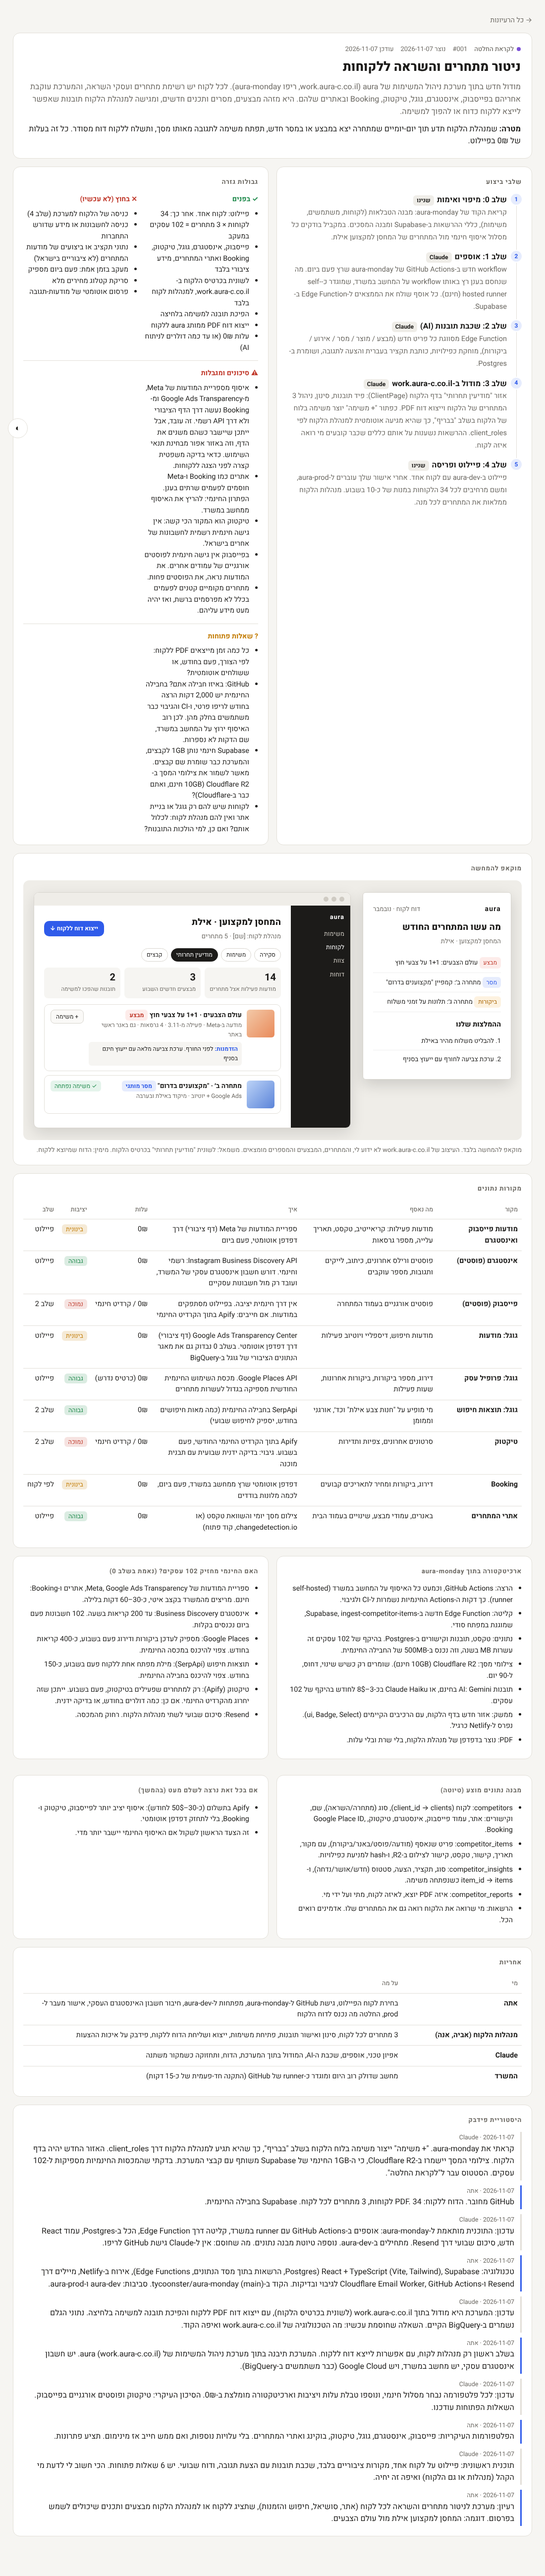
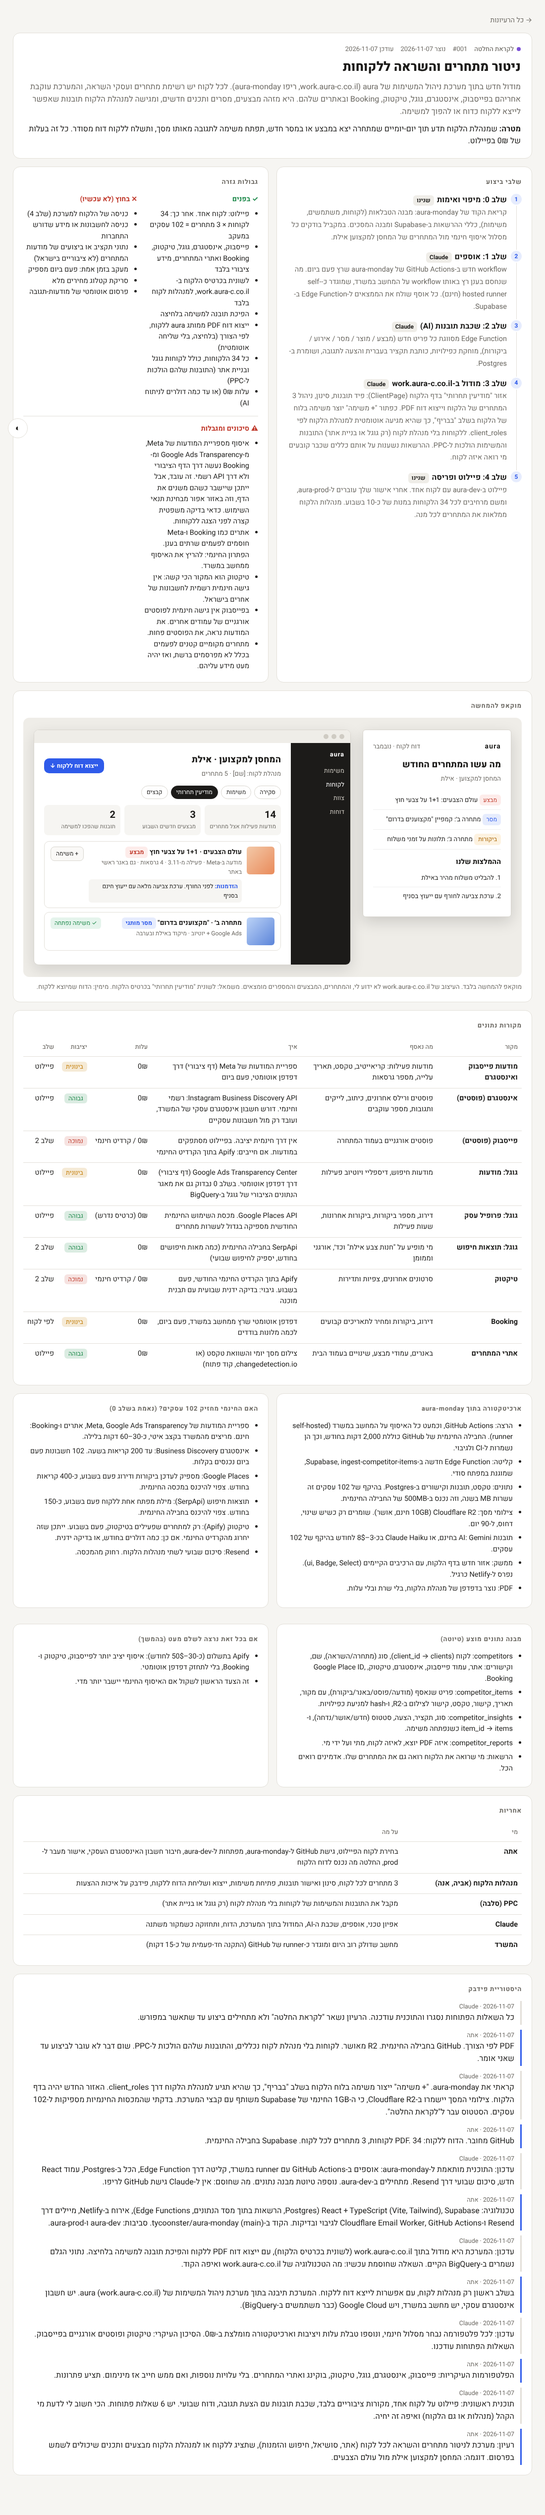
Ideas board: standing rules for any session; close idea 001 questions
CLAUDE.md now tells every session to add proposed ideas to the board
directly and never implement until explicitly approved. Idea 001: PDF on
demand, R2 approved, clients without an account manager route to PPC.

Claude-Session: https://claude.ai/code/session_01GqXwLKGuNiB6isbJsXL8Lf

Changed region(s): [[0.0309, 0.0, 0.9582, 0.9965], [0.0309, 0.2803, 0.2164, 0.3425]]

diff --git a/ideas/index.html b/ideas/index.html
@@ -153,12 +153,13 @@ const IDEAS = [
       {t:'שלב 0: מיפוי ואימות', d:'קריאת הקוד של aura-monday: מבנה הטבלאות (לקוחות, משתמשים, משימות), כללי ההרשאות ב-Supabase ומבנה המסכים. במקביל בודקים כל מסלול איסוף חינמי מול המתחרים של המחסן למקצוען אילת.', who:'שנינו'},
       {t:'שלב 1: אוספים', d:'workflow חדש ב-GitHub Actions של aura-monday שרץ פעם ביום. מה שנחסם בענן רץ באותו workflow על המחשב במשרד, שמוגדר כ-self-hosted runner (חינם). כל אוסף שולח את הממצאים ל-Edge Function ב-Supabase.', who:'Claude'},
       {t:'שלב 2: שכבת תובנות (AI)', d:'Edge Function מסווגת כל פריט חדש (מבצע / מוצר / מסר / אירוע / ביקורות), מוחקת כפילויות, כותבת תקציר בעברית והצעה לתגובה, ושומרת ב-Postgres.', who:'Claude'},
-      {t:'שלב 3: מודול ב-work.aura-c.co.il', d:'אזור "מודיעין תחרותי" בדף הלקוח (ClientPage): פיד תובנות, סינון, ניהול 3 המתחרים של הלקוח וייצוא דוח PDF. כפתור "+ משימה" יוצר משימה בלוח של הלקוח בשלב "בבריף", כך שהיא מגיעה אוטומטית למנהלת הלקוח לפי client_roles. ההרשאות נשענות על אותם כללים שכבר קובעים מי רואה איזה לקוח.', who:'Claude'},
+      {t:'שלב 3: מודול ב-work.aura-c.co.il', d:'אזור "מודיעין תחרותי" בדף הלקוח (ClientPage): פיד תובנות, סינון, ניהול 3 המתחרים של הלקוח וייצוא דוח PDF. כפתור "+ משימה" יוצר משימה בלוח של הלקוח בשלב "בבריף", כך שהיא מגיעה אוטומטית למנהלת הלקוח לפי client_roles. ללקוחות בלי מנהלת לקוח (רק גוגל או בניית אתר) התובנות והמשימות הולכות ל-PPC. ההרשאות נשענות על אותם כללים שכבר קובעים מי רואה איזה לקוח.', who:'Claude'},
       {t:'שלב 4: פיילוט ופריסה', d:'פיילוט ב-aura-dev עם לקוח אחד. אחרי אישור שלך עוברים ל-aura-prod, ומשם מרחיבים לכל 34 הלקוחות במנות של כ-10 בשבוע. מנהלות הלקוח ממלאות את המתחרים לכל מנה.', who:'שנינו'},
     ],
     owners: [
       {who:'אתה', what:'בחירת לקוח הפיילוט, גישת GitHub ל-aura-monday, מפתחות ל-aura-dev, חיבור חשבון האינסטגרם העסקי, אישור מעבר ל-prod, החלטה מה נכנס לדוח הלקוח'},
       {who:'מנהלות הלקוח (אביה, אנה)', what:'3 מתחרים לכל לקוח, סינון ואישור תובנות, פתיחת משימות, ייצוא ושליחת הדוח ללקוח, פידבק על איכות ההצעות'},
+      {who:'PPC (סלבה)', what:'מקבל את התובנות והמשימות של לקוחות בלי מנהלת לקוח (רק גוגל או בניית אתר)'},
       {who:'Claude', what:'אפיון טכני, אוספים, שכבת ה-AI, המודול בתוך המערכת, הדוח, ותחזוקה כשמקור משתנה'},
       {who:'המשרד', what:'מחשב שדולק רוב היום ומוגדר כ-runner של GitHub (התקנה חד-פעמית של כ-15 דקות)'},
     ],
@@ -167,7 +168,8 @@ const IDEAS = [
       'פייסבוק, אינסטגרם, גוגל, טיקטוק, Booking ואתרי המתחרים, מידע ציבורי בלבד',
       'לשונית בכרטיס הלקוח ב-work.aura-c.co.il, למנהלות לקוח בלבד',
       'הפיכת תובנה למשימה בלחיצה',
-      'ייצוא דוח PDF ממותג aura ללקוח',
+      'ייצוא דוח PDF ממותג aura ללקוח, לפי הצורך (בלחיצה, בלי שליחה אוטומטית)',
+      'כל 34 הלקוחות, כולל לקוחות גוגל ובניית אתר (התובנות שלהם הולכות ל-PPC)',
       'עלות 0₪ (או עד כמה דולרים לניתוח AI)',
     ],
     outScope: [
@@ -185,12 +187,7 @@ const IDEAS = [
       'בפייסבוק אין גישה חינמית לפוסטים אורגניים של עמודים אחרים. את המודעות נראה, את הפוסטים פחות.',
       'מתחרים מקומיים קטנים לפעמים בכלל לא מפרסמים ברשת, ואז יהיה מעט מידע עליהם.',
     ],
-    questions: [
-      'כל כמה זמן מייצאים PDF ללקוח: לפי הצורך, פעם בחודש, או ששולחים אוטומטית?',
-      'GitHub: באיזו חבילה אתם? בחבילה החינמית יש 2,000 דקות הרצה בחודש לריפו פרטי, ו-CI והגיבוי כבר משתמשים בחלק מהן. לכן רוב האיסוף ירוץ על המחשב במשרד, שם הדקות לא נספרות.',
-      'Supabase חינמי נותן 1GB לקבצים, והמערכת כבר שומרת שם קבצים. מאשר לשמור את צילומי המסך ב-Cloudflare R2 (10GB חינם, ואתם כבר ב-Cloudflare)?',
-      'לקוחות שיש להם רק גוגל או בניית אתר ואין להם מנהלת לקוח: לכלול אותם? ואם כן, למי הולכות התובנות?',
-    ],
+    questions: [],
     sources: [
       {name:'מודעות פייסבוק ואינסטגרם', what:'מודעות פעילות: קריאייטיב, טקסט, תאריך עלייה, מספר גרסאות', how:'ספריית המודעות של Meta (דף ציבורי) דרך דפדפן אוטומטי, פעם ביום', cost:'0₪', rel:'בינונית', phase:'פיילוט'},
       {name:'אינסטגרם (פוסטים)', what:'פוסטים ורילס אחרונים, כיתוב, לייקים ותגובות, מספר עוקבים', how:'Instagram Business Discovery API: רשמי וחינמי. דורש חשבון אינסטגרם עסקי של המשרד, ועובד רק מול חשבונות עסקיים', cost:'0₪', rel:'גבוהה', phase:'פיילוט'},
@@ -204,10 +201,10 @@ const IDEAS = [
     ],
     notes: [
       {title:'ארכיטקטורה בתוך aura-monday', items:[
-        'הרצה: GitHub Actions, וכמעט כל האיסוף על המחשב במשרד (self-hosted runner). כך דקות ה-Actions החינמיות נשמרות ל-CI ולגיבוי.',
+        'הרצה: GitHub Actions, וכמעט כל האיסוף על המחשב במשרד (self-hosted runner). החבילה החינמית של GitHub כוללת 2,000 דקות בחודש, וכך הן נשמרות ל-CI ולגיבוי.',
         'קליטה: Edge Function חדשה ב-Supabase, ingest-competitor-items, שמוגנת במפתח סודי.',
         'נתונים: טקסט, תובנות וקישורים ב-Postgres. בהיקף של 102 עסקים זה עשרות MB בשנה, וזה נכנס ב-500MB של החבילה החינמית.',
-        'צילומי מסך: Cloudflare R2 (10GB חינם). שומרים רק כשיש שינוי, דחוס, ל-90 יום.',
+        'צילומי מסך: Cloudflare R2 (10GB חינם, אושר). שומרים רק כשיש שינוי, דחוס, ל-90 יום.',
         'תובנות AI: Gemini בחינם, או Claude Haiku בכ-3–8$ לחודש בהיקף של 102 עסקים.',
         'ממשק: אזור חדש בדף הלקוח, עם הרכיבים הקיימים (ui, Badge, Select). נפרס ל-Netlify כרגיל.',
         'PDF: נוצר בדפדפן של מנהלת הלקוח, בלי שרת ובלי עלות.',
@@ -299,6 +296,8 @@ const IDEAS = [
       {date:'2026-11-07', from:'Claude', text:'עדכון: התוכנית מותאמת ל-aura-monday: אוספים ב-GitHub Actions עם runner במשרד, קליטה דרך Edge Function, הכל ב-Postgres, עמוד React חדש, סיכום שבועי דרך Resend. מתחילים ב-aura-dev. נוספה טיוטת מבנה נתונים. מה שחוסם: אין ל-Claude גישת GitHub לריפו.'},
       {date:'2026-11-07', from:'אתה', text:'GitHub מחובר. הדוח ללקוח: PDF. 34 לקוחות, 3 מתחרים לכל לקוח. Supabase בחבילה החינמית.'},
       {date:'2026-11-07', from:'Claude', text:'קראתי את aura-monday. "+ משימה" ייצור משימה בלוח הלקוח בשלב "בבריף", כך שהיא תגיע למנהלת הלקוח דרך client_roles. האזור החדש יהיה בדף הלקוח. צילומי המסך יישמרו ב-Cloudflare R2, כי ה-1GB החינמי של Supabase משותף עם קבצי המערכת. בדקתי שהמכסות החינמיות מספיקות ל-102 עסקים. הסטטוס עבר ל"לקראת החלטה".'},
+      {date:'2026-11-07', from:'אתה', text:'PDF לפי הצורך. GitHub בחבילה החינמית. R2 מאושר. לקוחות בלי מנהלת לקוח נכללים, והתובנות שלהם הולכות ל-PPC. שום דבר לא עובר לביצוע עד שאני אומר.'},
+      {date:'2026-11-07', from:'Claude', text:'כל השאלות הפתוחות נסגרו והתוכנית עודכנה. הרעיון נשאר "לקראת החלטה" ולא מתחילים ביצוע עד שתאשר במפורש.'},
     ],
   },
 ];

diff --git a/CLAUDE.md b/CLAUDE.md
@@ -1,6 +1,24 @@
 # CLAUDE.md
 
-This repo currently holds an ideas board. When the user sends an idea, add it to `ideas/index.html`
-following the workflow in `ideas/README.md` (Hebrew, RTL). Every idea gets: summary, goal, steps with owner,
-responsibility table, scope (in / out / open questions), an illustrative HTML mockup, and a feedback log.
-Do not start implementation until the idea's status is `go`.
+This repo is the user's **ideas board**: `ideas/index.html` (single page, Hebrew, RTL). Workflow details: `ideas/README.md`.
+
+## When the user proposes an idea (in any wording, in any conversation)
+Add it to the board right away. Don't ask whether to add it.
+1. Add a new object to the `IDEAS` array in `ideas/index.html`. Use the next running id (`001`, `002`…), `status: 'feedback'`, and today's date in `created` and `updated`.
+2. Fill in: `summary`, `goal`, `steps` (each with `who`), `owners`, `inScope`, `outScope`, `risks`, `questions`, `mockup` (illustrative HTML using the `.phone` / `.desk` / `m-*` kit) plus `mockNote`. Add `sources` and `notes` when they help.
+3. Log the user's words and your summary in `feedback`, oldest first.
+4. Render-check the page with Playwright (no page errors, no horizontal scroll at 390px). Then commit and push to this repo's default branch.
+5. Reply in Hebrew with a short summary of the plan and the open questions (the most important first).
+
+## When the user gives feedback on an idea
+Update that idea, add both sides to `feedback`, and bump `updated`. Remove questions that have been answered. Move `status` to `decide` once nothing blocks a decision.
+
+## Hard rule: nothing leaves the board until the user says so
+- Do not implement, scaffold, create branches, or change code in any other repository (e.g. `tycoonster/aura-monday`) for an idea until the user explicitly says to proceed with it. A status of `decide` is not approval.
+- Reading other repositories to make a plan accurate is fine. Writing to them is not.
+- Once approved: set `status: 'go'`, then write a detailed spec before any code.
+
+## Context
+- Owner: Or, Aura Creative (advertising agency). The office system is work.aura-c.co.il (repo `tycoonster/aura-monday`: React + TypeScript, Vite, Tailwind, Supabase on the free plan, Netlify, Resend, Cloudflare Email Worker, GitHub on the free plan). Environments: `aura-dev`, `aura-prod`.
+- The user prefers zero-cost solutions, or minimal cost if there is no other way.
+- Mockups must say they are illustrative. Mark any made-up names or numbers as made up.

diff --git a/ideas/README.md b/ideas/README.md
@@ -18,6 +18,10 @@
 ## סטטוסים
 `draft` טיוטה · `feedback` ממתין לפידבק · `decide` לקראת החלטה · `go` אושר לביצוע · `doing` בביצוע · `shelf` נגנז
 
+## כלל ברזל
+שום רעיון לא עובר לביצוע עד שאור אומר במפורש שאפשר להתקדם. עד אז, הכל נשאר בלוח הזה.
+סטטוס "לקראת החלטה" הוא עדיין לא אישור.
+
 ## כללים
 - מספור רץ: `001`, `002`…
 - המוקאפ הוא המחשה בלבד, לא עיצוב סופי.
